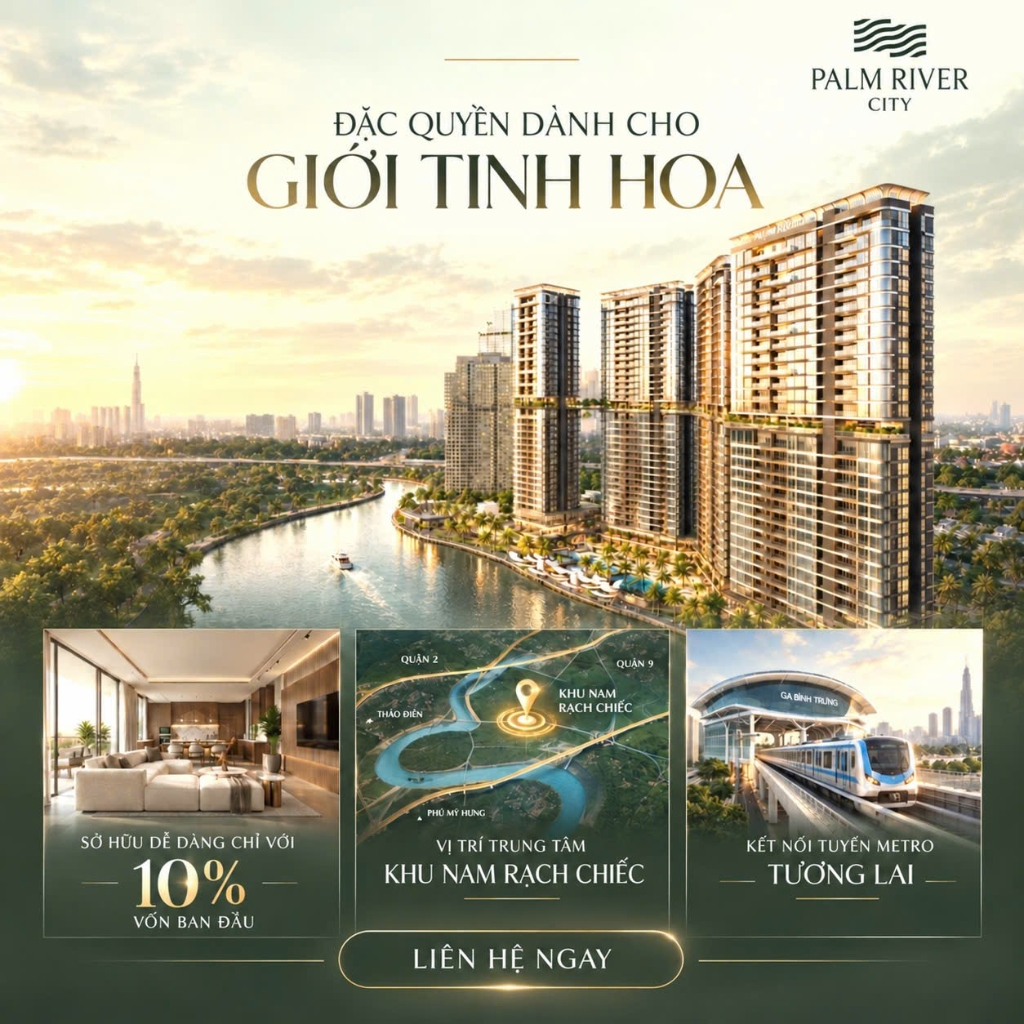
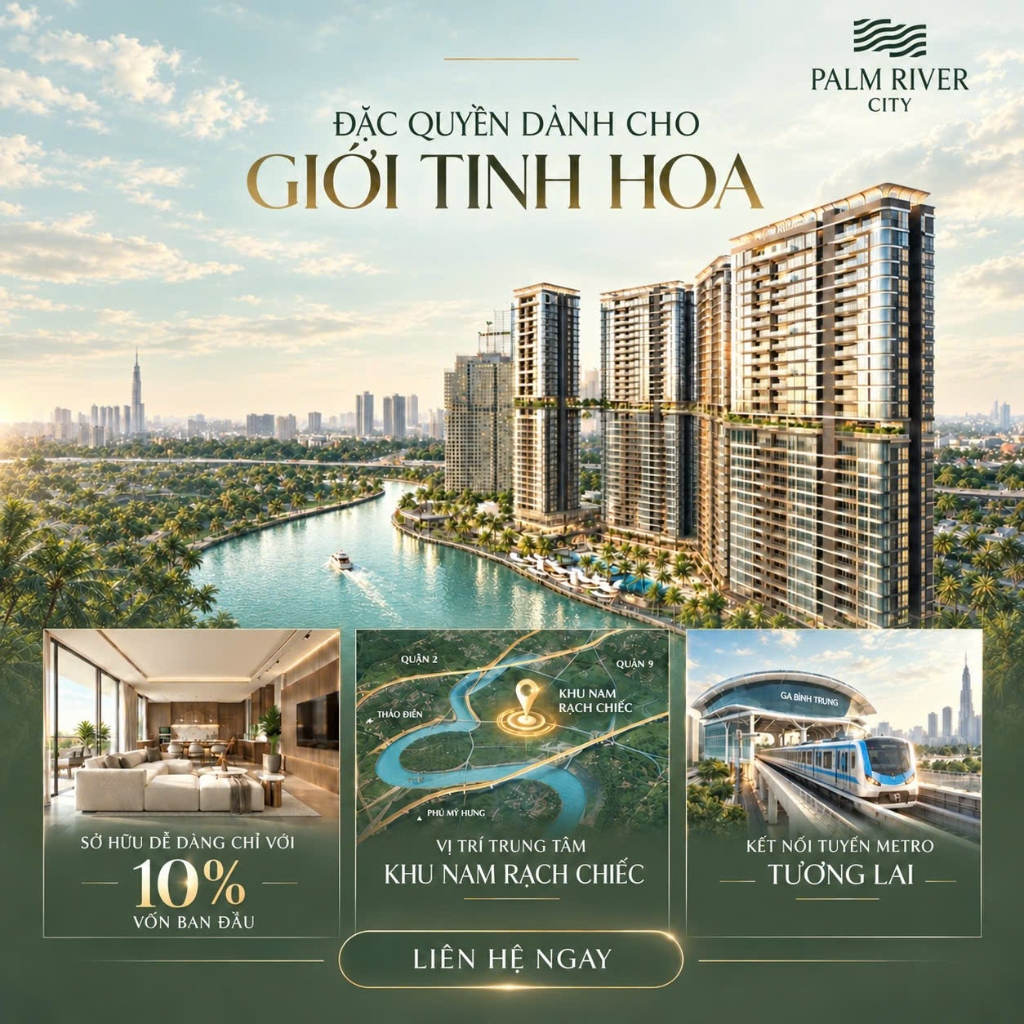
feat(green-skyline): sync staging sandbox

diff --git a/du-an/palm-river2/index.html b/du-an/palm-river2/index.html
@@ -347,7 +347,7 @@ theo nhịp chảy tự nhiên của thiên nhiên.</p>
             </div>
         </div>
         <div class="layer-building">
-            <img loading="lazy" decoding="async" src="/assets/palm-river/uploads/2026/10/palm-river-dac-quyen-tinh-hoa.jpg" alt="Palm River - Đặc quyền dành cho giới tinh hoa">
+            <img loading="lazy" decoding="async" src="/assets/palm-river/uploads/2026/10/palm-river-dac-quyen-tinh-hoa-v2.jpg" alt="Palm River - Đặc quyền dành cho giới tinh hoa">
         </div>
         <div class="video-wrap">
             <video class="img-fluid" autoplay muted loop playsinline preload="none" data-lazy-video="1">
@@ -2463,10 +2463,10 @@ theo nhịp chảy tự nhiên của thiên nhiên.</p>
                         <nav class="tab-plan">
                             <div class="nav-tabs">
                                 <button class="nav-link active" data-tab="floorPlan">
-                                    <h3 class="title-tab-plan ms-1">Floor plan</h3>
+                                    <h3 class="title-tab-plan">Sơ đồ mặt bằng</h3>
                                 </button>
                                 <button class="nav-link" data-tab="unitPlan">
-                                    <h3 class="title-tab-plan ms-1">Unit plan</h3>
+                                    <h3 class="title-tab-plan">Layout căn hộ</h3>
                                 </button>
                             </div>
                         </nav>
@@ -2868,28 +2868,35 @@ theo nhịp chảy tự nhiên của thiên nhiên.</p>
                                             <div class="col-md-7">
                                                 <p class="fs-12 text-center cl-blue">Hình ảnh hóa kiến trúc 3D</p>
                                                 <div class="slider_floor">
-                                                                                                                <div class="item">
+                                                            <div class="item">
                                                                 <figure>
-                                                                    <a  href="/assets/palm-river/uploads/2026/08/3Bed_Living1_1_1.jpg.webp" data-fancybox="gallery-unit-1">
-                                                                        <img loading="lazy" decoding="async" src="/assets/palm-river/uploads/2026/08/3Bed_Living1_1_1.jpg.webp" class="img-fluid" alt="">
+                                                                    <a href="/assets/palm-river/uploads/2026/10/palm-river-3pn-3d-01.jpg" data-fancybox="gallery-unit-1">
+                                                                        <img loading="lazy" decoding="async" src="/assets/palm-river/uploads/2026/10/palm-river-3pn-3d-01.jpg" class="img-fluid" alt="Phòng khách và bàn ăn căn hộ 3 phòng ngủ Palm River">
                                                                     </a>
                                                                 </figure>
                                                             </div>
-                                                                                                                    <div class="item">
+                                                            <div class="item">
                                                                 <figure>
-                                                                    <a  href="/assets/palm-river/uploads/2026/08/3Bed_Waredrobe1_1.jpg.webp" data-fancybox="gallery-unit-1">
-                                                                        <img loading="lazy" decoding="async" src="/assets/palm-river/uploads/2026/08/3Bed_Waredrobe1_1.jpg.webp" class="img-fluid" alt="">
+                                                                    <a href="/assets/palm-river/uploads/2026/10/palm-river-3pn-3d-02.png" data-fancybox="gallery-unit-1">
+                                                                        <img loading="lazy" decoding="async" src="/assets/palm-river/uploads/2026/10/palm-river-3pn-3d-02.png" class="img-fluid" alt="Khu vực bàn ăn căn hộ 3 phòng ngủ Palm River">
                                                                     </a>
                                                                 </figure>
                                                             </div>
-                                                                                                                    <div class="item">
+                                                            <div class="item">
                                                                 <figure>
-                                                                    <a  href="/assets/palm-river/uploads/2026/08/3Bed_Masterbed1_2-OP1.jpg.webp" data-fancybox="gallery-unit-1">
-                                                                        <img loading="lazy" decoding="async" src="/assets/palm-river/uploads/2026/08/3Bed_Masterbed1_2-OP1.jpg.webp" class="img-fluid" alt="">
+                                                                    <a href="/assets/palm-river/uploads/2026/10/palm-river-3pn-3d-03.jpg" data-fancybox="gallery-unit-1">
+                                                                        <img loading="lazy" decoding="async" src="/assets/palm-river/uploads/2026/10/palm-river-3pn-3d-03.jpg" class="img-fluid" alt="Phòng ngủ Master căn hộ 3 phòng ngủ Palm River">
                                                                     </a>
                                                                 </figure>
                                                             </div>
-                                                                                                        </div>
+                                                            <div class="item">
+                                                                <figure>
+                                                                    <a href="/assets/palm-river/uploads/2026/10/palm-river-3pn-3d-04.png" data-fancybox="gallery-unit-1">
+                                                                        <img loading="lazy" decoding="async" src="/assets/palm-river/uploads/2026/10/palm-river-3pn-3d-04.png" class="img-fluid" alt="Phòng tắm căn hộ 3 phòng ngủ Palm River">
+                                                                    </a>
+                                                                </figure>
+                                                            </div>
+                                                </div>
                                             </div>
                                         </div>
                                     </div>

diff --git a/palm-river2.html b/palm-river2.html
@@ -347,7 +347,7 @@ theo nhịp chảy tự nhiên của thiên nhiên.</p>
             </div>
         </div>
         <div class="layer-building">
-            <img loading="lazy" decoding="async" src="/assets/palm-river/uploads/2026/10/palm-river-dac-quyen-tinh-hoa.jpg" alt="Palm River - Đặc quyền dành cho giới tinh hoa">
+            <img loading="lazy" decoding="async" src="/assets/palm-river/uploads/2026/10/palm-river-dac-quyen-tinh-hoa-v2.jpg" alt="Palm River - Đặc quyền dành cho giới tinh hoa">
         </div>
         <div class="video-wrap">
             <video class="img-fluid" autoplay muted loop playsinline preload="none" data-lazy-video="1">
@@ -2463,10 +2463,10 @@ theo nhịp chảy tự nhiên của thiên nhiên.</p>
                         <nav class="tab-plan">
                             <div class="nav-tabs">
                                 <button class="nav-link active" data-tab="floorPlan">
-                                    <h3 class="title-tab-plan ms-1">Floor plan</h3>
+                                    <h3 class="title-tab-plan">Sơ đồ mặt bằng</h3>
                                 </button>
                                 <button class="nav-link" data-tab="unitPlan">
-                                    <h3 class="title-tab-plan ms-1">Unit plan</h3>
+                                    <h3 class="title-tab-plan">Layout căn hộ</h3>
                                 </button>
                             </div>
                         </nav>
@@ -2868,28 +2868,35 @@ theo nhịp chảy tự nhiên của thiên nhiên.</p>
                                             <div class="col-md-7">
                                                 <p class="fs-12 text-center cl-blue">Hình ảnh hóa kiến trúc 3D</p>
                                                 <div class="slider_floor">
-                                                                                                                <div class="item">
+                                                            <div class="item">
                                                                 <figure>
-                                                                    <a  href="/assets/palm-river/uploads/2026/08/3Bed_Living1_1_1.jpg.webp" data-fancybox="gallery-unit-1">
-                                                                        <img loading="lazy" decoding="async" src="/assets/palm-river/uploads/2026/08/3Bed_Living1_1_1.jpg.webp" class="img-fluid" alt="">
+                                                                    <a href="/assets/palm-river/uploads/2026/10/palm-river-3pn-3d-01.jpg" data-fancybox="gallery-unit-1">
+                                                                        <img loading="lazy" decoding="async" src="/assets/palm-river/uploads/2026/10/palm-river-3pn-3d-01.jpg" class="img-fluid" alt="Phòng khách và bàn ăn căn hộ 3 phòng ngủ Palm River">
                                                                     </a>
                                                                 </figure>
                                                             </div>
-                                                                                                                    <div class="item">
+                                                            <div class="item">
                                                                 <figure>
-                                                                    <a  href="/assets/palm-river/uploads/2026/08/3Bed_Waredrobe1_1.jpg.webp" data-fancybox="gallery-unit-1">
-                                                                        <img loading="lazy" decoding="async" src="/assets/palm-river/uploads/2026/08/3Bed_Waredrobe1_1.jpg.webp" class="img-fluid" alt="">
+                                                                    <a href="/assets/palm-river/uploads/2026/10/palm-river-3pn-3d-02.png" data-fancybox="gallery-unit-1">
+                                                                        <img loading="lazy" decoding="async" src="/assets/palm-river/uploads/2026/10/palm-river-3pn-3d-02.png" class="img-fluid" alt="Khu vực bàn ăn căn hộ 3 phòng ngủ Palm River">
                                                                     </a>
                                                                 </figure>
                                                             </div>
-                                                                                                                    <div class="item">
+                                                            <div class="item">
                                                                 <figure>
-                                                                    <a  href="/assets/palm-river/uploads/2026/08/3Bed_Masterbed1_2-OP1.jpg.webp" data-fancybox="gallery-unit-1">
-                                                                        <img loading="lazy" decoding="async" src="/assets/palm-river/uploads/2026/08/3Bed_Masterbed1_2-OP1.jpg.webp" class="img-fluid" alt="">
+                                                                    <a href="/assets/palm-river/uploads/2026/10/palm-river-3pn-3d-03.jpg" data-fancybox="gallery-unit-1">
+                                                                        <img loading="lazy" decoding="async" src="/assets/palm-river/uploads/2026/10/palm-river-3pn-3d-03.jpg" class="img-fluid" alt="Phòng ngủ Master căn hộ 3 phòng ngủ Palm River">
                                                                     </a>
                                                                 </figure>
                                                             </div>
-                                                                                                        </div>
+                                                            <div class="item">
+                                                                <figure>
+                                                                    <a href="/assets/palm-river/uploads/2026/10/palm-river-3pn-3d-04.png" data-fancybox="gallery-unit-1">
+                                                                        <img loading="lazy" decoding="async" src="/assets/palm-river/uploads/2026/10/palm-river-3pn-3d-04.png" class="img-fluid" alt="Phòng tắm căn hộ 3 phòng ngủ Palm River">
+                                                                    </a>
+                                                                </figure>
+                                                            </div>
+                                                </div>
                                             </div>
                                         </div>
                                     </div>

diff --git a/palm-river2/index.html b/palm-river2/index.html
@@ -347,7 +347,7 @@ theo nhịp chảy tự nhiên của thiên nhiên.</p>
             </div>
         </div>
         <div class="layer-building">
-            <img loading="lazy" decoding="async" src="/assets/palm-river/uploads/2026/10/palm-river-dac-quyen-tinh-hoa.jpg" alt="Palm River - Đặc quyền dành cho giới tinh hoa">
+            <img loading="lazy" decoding="async" src="/assets/palm-river/uploads/2026/10/palm-river-dac-quyen-tinh-hoa-v2.jpg" alt="Palm River - Đặc quyền dành cho giới tinh hoa">
         </div>
         <div class="video-wrap">
             <video class="img-fluid" autoplay muted loop playsinline preload="none" data-lazy-video="1">
@@ -2463,10 +2463,10 @@ theo nhịp chảy tự nhiên của thiên nhiên.</p>
                         <nav class="tab-plan">
                             <div class="nav-tabs">
                                 <button class="nav-link active" data-tab="floorPlan">
-                                    <h3 class="title-tab-plan ms-1">Floor plan</h3>
+                                    <h3 class="title-tab-plan">Sơ đồ mặt bằng</h3>
                                 </button>
                                 <button class="nav-link" data-tab="unitPlan">
-                                    <h3 class="title-tab-plan ms-1">Unit plan</h3>
+                                    <h3 class="title-tab-plan">Layout căn hộ</h3>
                                 </button>
                             </div>
                         </nav>
@@ -2868,28 +2868,35 @@ theo nhịp chảy tự nhiên của thiên nhiên.</p>
                                             <div class="col-md-7">
                                                 <p class="fs-12 text-center cl-blue">Hình ảnh hóa kiến trúc 3D</p>
                                                 <div class="slider_floor">
-                                                                                                                <div class="item">
+                                                            <div class="item">
                                                                 <figure>
-                                                                    <a  href="/assets/palm-river/uploads/2026/08/3Bed_Living1_1_1.jpg.webp" data-fancybox="gallery-unit-1">
-                                                                        <img loading="lazy" decoding="async" src="/assets/palm-river/uploads/2026/08/3Bed_Living1_1_1.jpg.webp" class="img-fluid" alt="">
+                                                                    <a href="/assets/palm-river/uploads/2026/10/palm-river-3pn-3d-01.jpg" data-fancybox="gallery-unit-1">
+                                                                        <img loading="lazy" decoding="async" src="/assets/palm-river/uploads/2026/10/palm-river-3pn-3d-01.jpg" class="img-fluid" alt="Phòng khách và bàn ăn căn hộ 3 phòng ngủ Palm River">
                                                                     </a>
                                                                 </figure>
                                                             </div>
-                                                                                                                    <div class="item">
+                                                            <div class="item">
                                                                 <figure>
-                                                                    <a  href="/assets/palm-river/uploads/2026/08/3Bed_Waredrobe1_1.jpg.webp" data-fancybox="gallery-unit-1">
-                                                                        <img loading="lazy" decoding="async" src="/assets/palm-river/uploads/2026/08/3Bed_Waredrobe1_1.jpg.webp" class="img-fluid" alt="">
+                                                                    <a href="/assets/palm-river/uploads/2026/10/palm-river-3pn-3d-02.png" data-fancybox="gallery-unit-1">
+                                                                        <img loading="lazy" decoding="async" src="/assets/palm-river/uploads/2026/10/palm-river-3pn-3d-02.png" class="img-fluid" alt="Khu vực bàn ăn căn hộ 3 phòng ngủ Palm River">
                                                                     </a>
                                                                 </figure>
                                                             </div>
-                                                                                                                    <div class="item">
+                                                            <div class="item">
                                                                 <figure>
-                                                                    <a  href="/assets/palm-river/uploads/2026/08/3Bed_Masterbed1_2-OP1.jpg.webp" data-fancybox="gallery-unit-1">
-                                                                        <img loading="lazy" decoding="async" src="/assets/palm-river/uploads/2026/08/3Bed_Masterbed1_2-OP1.jpg.webp" class="img-fluid" alt="">
+                                                                    <a href="/assets/palm-river/uploads/2026/10/palm-river-3pn-3d-03.jpg" data-fancybox="gallery-unit-1">
+                                                                        <img loading="lazy" decoding="async" src="/assets/palm-river/uploads/2026/10/palm-river-3pn-3d-03.jpg" class="img-fluid" alt="Phòng ngủ Master căn hộ 3 phòng ngủ Palm River">
                                                                     </a>
                                                                 </figure>
                                                             </div>
-                                                                                                        </div>
+                                                            <div class="item">
+                                                                <figure>
+                                                                    <a href="/assets/palm-river/uploads/2026/10/palm-river-3pn-3d-04.png" data-fancybox="gallery-unit-1">
+                                                                        <img loading="lazy" decoding="async" src="/assets/palm-river/uploads/2026/10/palm-river-3pn-3d-04.png" class="img-fluid" alt="Phòng tắm căn hộ 3 phòng ngủ Palm River">
+                                                                    </a>
+                                                                </figure>
+                                                            </div>
+                                                </div>
                                             </div>
                                         </div>
                                     </div>
